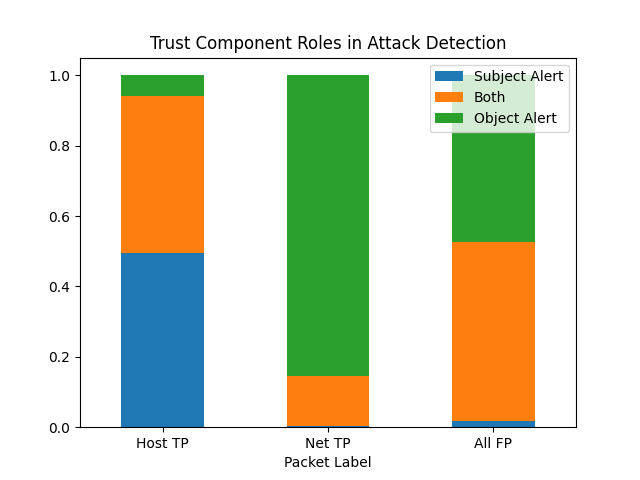
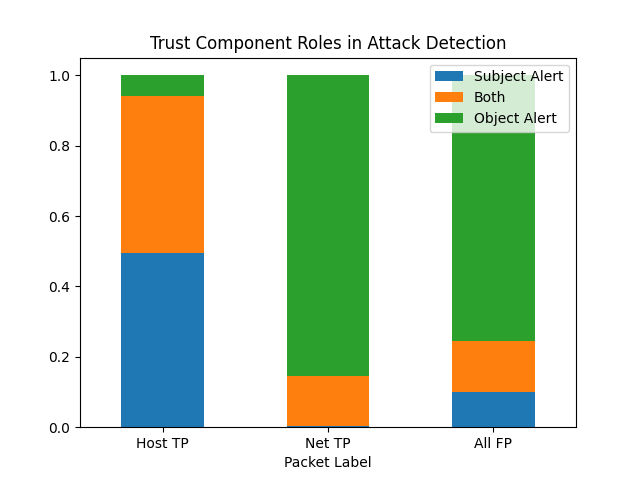
Trust roles graph updated

Changed region(s): [[0.6875, 0.5, 0.8438, 0.7188], [0.6875, 0.8125, 0.8438, 0.875]]

diff --git a/performance/new_host_prop.py b/performance/new_host_prop.py
@@ -44,11 +44,11 @@ with open(args.file,'r') as f:
         if line.startswith("Attack file"):
             # print(line)
             for k,m in metrics.items(): 
-                if k == "HOST" or k == "NET":
-                    if m.host_count != 0: 
-                        m.results.append([m.host_count,m.both_count,m.net_count,m.total_count])
-                elif m.total_count != 0:
+                # if k == "HOST" or k == "NET":
+                if m.host_count != 0: 
                     m.results.append([m.host_count,m.both_count,m.net_count,m.total_count])
+                # elif m.total_count != 0:
+                #     m.results.append([m.host_count,m.both_count,m.net_count,m.total_count])
                 m.reset()
         line = line.strip()
         det = line.split(",")
@@ -68,13 +68,21 @@ with open(args.file,'r') as f:
         # FP
         if det[-1] == "FP":
             metrics["FP"].total_count += 1
-            if float(det[-2]) > 0.2 and float(det[-3]) < 0.7:
-                metrics["FP"].both_count += 1
-            elif float(det[-2]) > 0.4:
+            # if float(det[-2]) > 0.2 and float(det[-3]) < 0.7:
+            #     metrics["FP"].both_count += 1
+            # elif float(det[-2]) > 0.4:
+            #     metrics["FP"].net_count += 1 
+            # # elif float(det[-3]) < 0.5: 
+            # else:
+            #     metrics["FP"].host_count += 1
+            metrics["FP"].total_count += 1
+            if float(det[-3]) < 1: 
+                if float(det[-2]) < 0.4:
+                    metrics["FP"].host_count += 1
+                else:
+                    metrics["FP"].both_count += 1
+            elif float(det[-2]) > 0.4: 
                 metrics["FP"].net_count += 1 
-            # elif float(det[-3]) < 0.5: 
-            else:
-                metrics["FP"].host_count += 1
     # print(host_only_count,host_count,total_count,host_only_count/total_count,host_count/total_count)
     # print(net_count,host_count,total_count,net_count/total_count,host_count/total_count)
     print([[k,v.get_results()] for k,v in metrics.items()])

diff --git a/performance/host_proportion_detection.py b/performance/host_proportion_detection.py
@@ -50,13 +50,20 @@ with open(args.file,'r') as f:
         # FP
         if det[-1] == "FP":
             fp_count += 1
-            if float(det[-2]) > 0.2 and float(det[-3]) < 0.7:
-                both_fp += 1
-            elif float(det[-2]) > 0.4:
-                net_fp += 1 
-            # elif float(det[-3]) < 0.5: 
-            else:
-                host_fp += 1
+            if float(det[-3]) < 1: 
+                if float(det[-2]) < 0.4:
+                    host_fp += 1 
+                else:
+                    both_fp +=1 
+            elif float(det[-2]) > 0.4: 
+                net_fp += 1
+            # if float(det[-2]) > 0.2 and float(det[-3]) < 0.7:
+            #     both_fp += 1
+            # elif float(det[-2]) > 0.4:
+            #     net_fp += 1 
+            # # elif float(det[-3]) < 0.5: 
+            # else:
+            #     host_fp += 1
     # print(host_only_count,host_count,total_count,host_only_count/total_count,host_count/total_count)
     # print(net_count,host_count,total_count,net_count/total_count,host_count/total_count)
     subj_only = np.mean([x[-2] for x in all_results])
